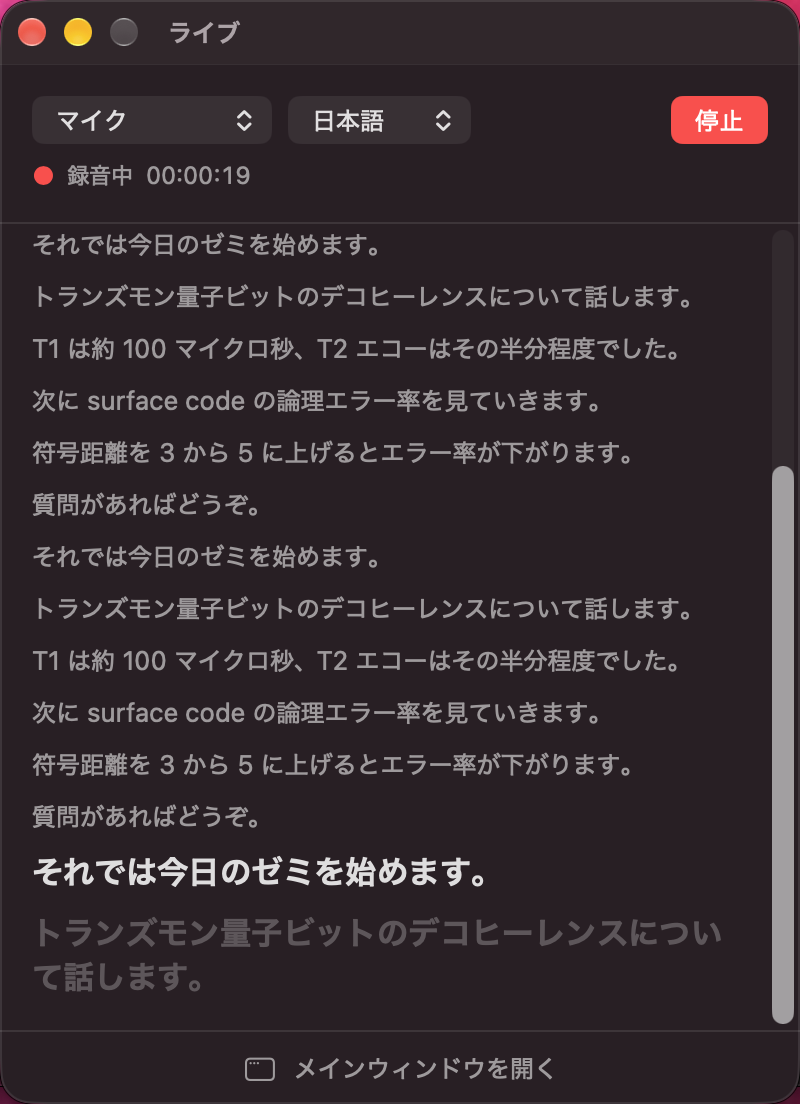
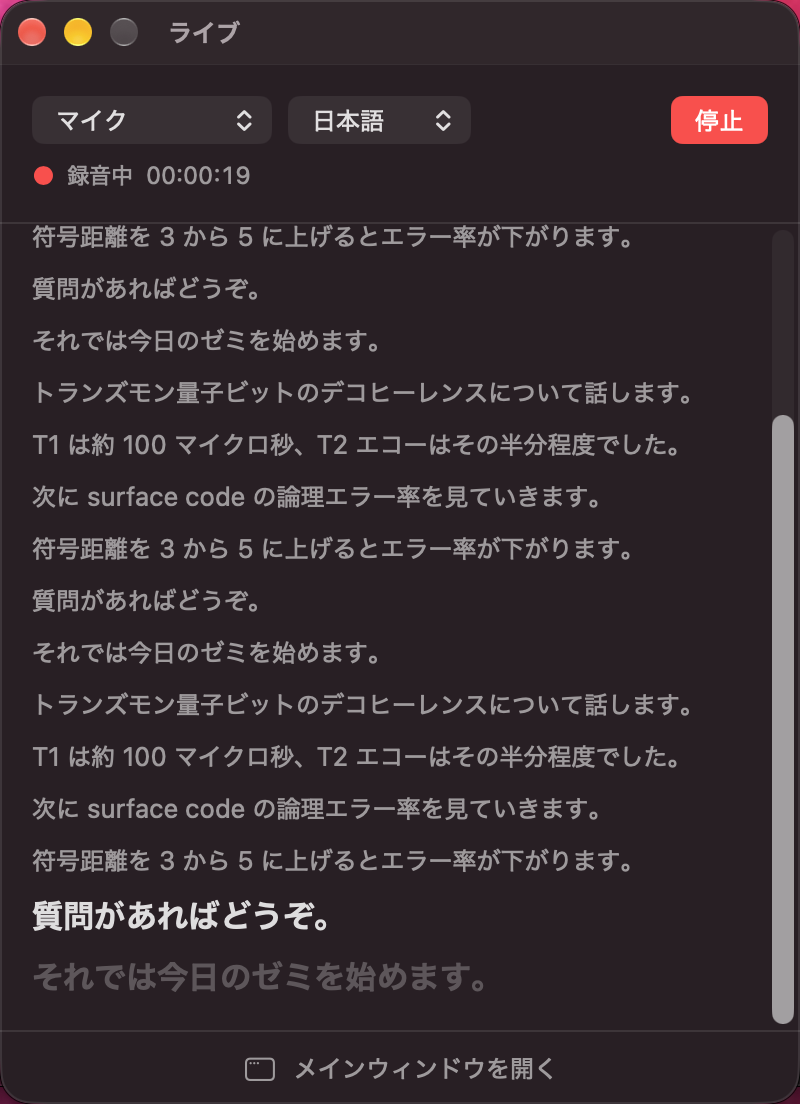
Keep UI-test windows on the main display and move screenshots to dedicated tests

Changed region(s): [[0.0312, 0.1848, 0.9062, 0.9239], [0.9375, 0.3696, 1.0, 0.4312], [0.5, 0.1848, 0.5312, 0.2156]]

diff --git a/VisperUITests/VisperUITests.swift b/VisperUITests/VisperUITests.swift
@@ -79,7 +79,6 @@ final class MainWindowUITests: VisperUITestCase {
         }
         XCTAssertTrue(element("playButton").exists)
         XCTAssertFalse(element("provisionalNotice").exists)
-        saveScreenshot("main", windowContaining: "sessionTitle")
     }
 
     func testSearchFilters() {
@@ -140,7 +139,6 @@ final class SettingsUITests: VisperUITestCase {
         }
         XCTAssertTrue(element("glossaryCount").exists)
         XCTAssertFalse(element("glossaryWarning").exists)
-        saveScreenshot("settings", windowContaining: "glossaryEditor")
     }
 
     func testDisconnectedMicStaysSelected() {
@@ -204,8 +202,6 @@ final class LyricsUITests: VisperUITestCase {
         XCTAssertTrue(newestVisible(), "最新行に追従している")
         XCTAssertFalse(scroll.frame.intersects(lines.element(boundBy: 0).frame), "最初の行は上に流れた")
         XCTAssertFalse(element("jumpToLatest").exists)
-        saveScreenshot("lyrics", windowContaining: "lyricsScroll")
-        save(XCUIScreen.main.screenshot(), as: "screen-recording")
 
         scroll.scroll(byDeltaX: 0, deltaY: 300)
         XCTAssertTrue(element("jumpToLatest").waitForExistence(timeout: 5), "手動スクロールで追従が止まる")
@@ -222,5 +218,32 @@ final class LyricsUITests: VisperUITestCase {
 
         element("startStopButton").click()
         waitFor("待機中に戻る") { state == "待機中" }
+    }
+}
+
+/// 目視確認用のスクリーンショット（D31）。撮影できない環境でも動作のテストを落とさないよう、ここに分けてある。
+final class ScreenshotUITests: VisperUITestCase {
+    func testMainWindow() {
+        launch()
+        sessionTitle(firstTitle).click()
+        XCTAssertTrue(element("transcriptLine").waitForExistence(timeout: 5))
+        saveScreenshot("main", windowContaining: "sessionTitle")
+    }
+
+    func testSettings() {
+        launch(["-glossary", "トランズモン、surface code、デコヒーレンス"])
+        app.typeKey(",", modifierFlags: .command)
+        XCTAssertTrue(element("glossaryEditor").waitForExistence(timeout: 5))
+        saveScreenshot("settings", windowContaining: "glossaryEditor")
+    }
+
+    func testLyricsWhileRecording() {
+        launch(["-lyricsWindow"])
+        XCTAssertTrue(element("startStopButton").waitForExistence(timeout: 10))
+        element("startStopButton").click()
+        waitFor("画面からあふれる行数", timeout: 40) { elements("lyricsLine").count >= 18 }
+        saveScreenshot("lyrics", windowContaining: "lyricsScroll")
+        save(XCUIScreen.main.screenshot(), as: "screen-recording")
+        element("startStopButton").click()
     }
 }

diff --git a/Visper/VisperApp.swift b/Visper/VisperApp.swift
@@ -9,6 +9,24 @@ struct VisperApp: App {
     init() {
         // 再生状態（timeControlStatus）を SwiftUI から監視できるようにする。
         AVPlayer.isObservationEnabled = true
+        if AppEnvironment.isUITesting { Self.keepWindowsOnMainDisplay() }
+    }
+
+    /// UI テスト専用。前回の位置を覚えていて別のディスプレイに出たウィンドウは XCUITest で撮影できないので、
+    /// 主ディスプレイの中央へ戻す。
+    private static func keepWindowsOnMainDisplay() {
+        let names = [
+            NSWindow.didBecomeKeyNotification, NSWindow.didBecomeMainNotification,
+            NSWindow.didChangeScreenNotification, NSWindow.didChangeOcclusionStateNotification,
+        ]
+        for name in names {
+            NotificationCenter.default.addObserver(forName: name, object: nil, queue: .main) { note in
+                guard let window = note.object as? NSWindow, window.styleMask.contains(.titled),
+                      let main = NSScreen.screens.first, window.screen != main else { return }
+                let area = main.visibleFrame
+                window.setFrameOrigin(NSPoint(x: area.midX - window.frame.width / 2, y: area.midY - window.frame.height / 2))
+            }
+        }
     }
 
     var body: some Scene {
